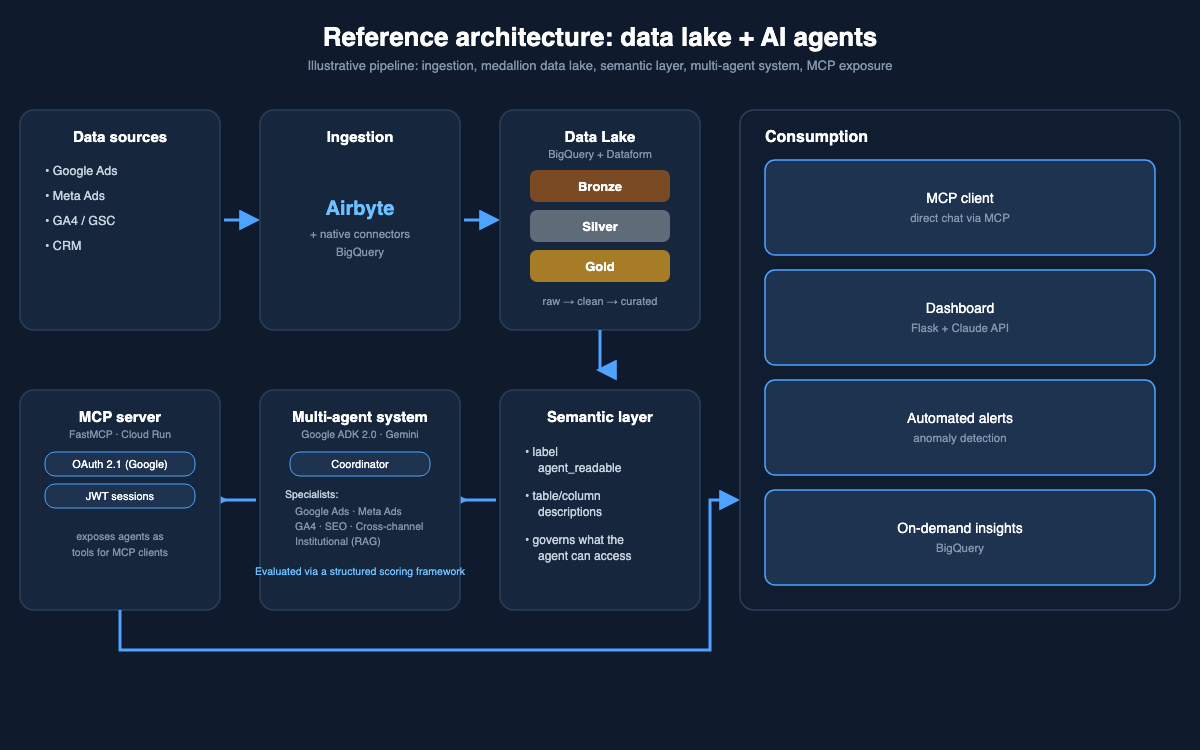
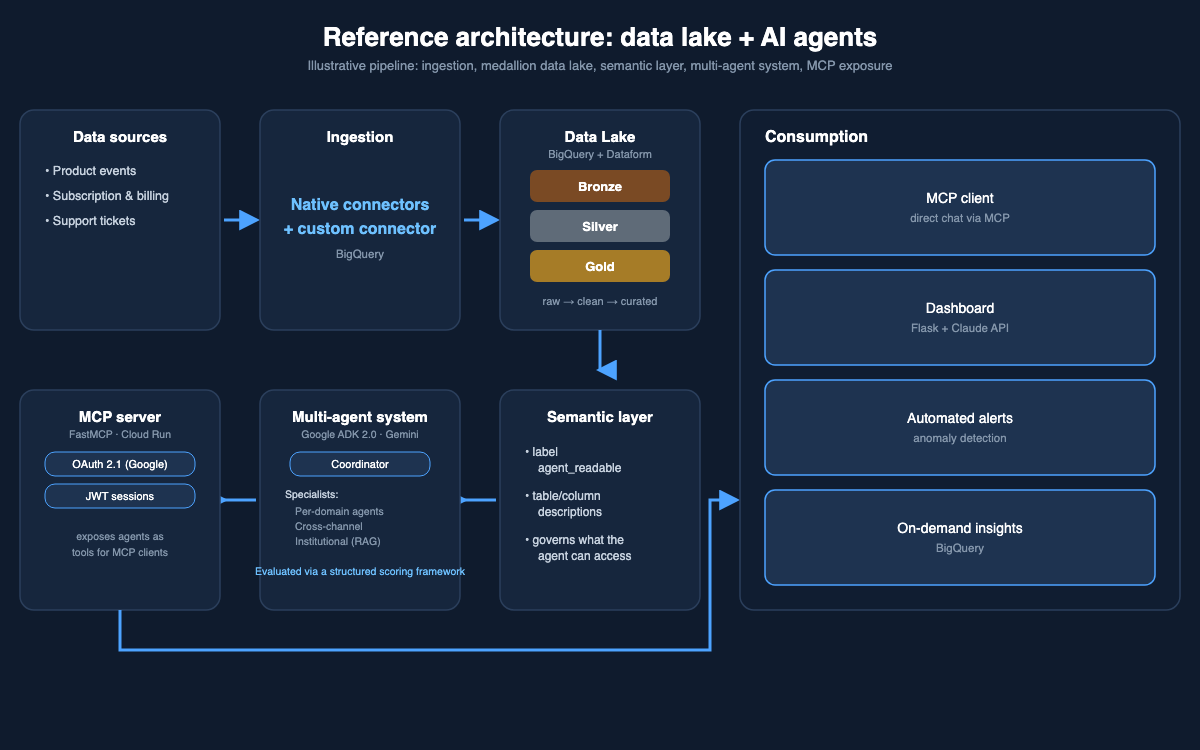
docs: reframe around decisions and trade-offs, generic domain
Shift emphasis from infrastructure description to the reasoning behind
key decisions (connector strategy, partitioning, incremental windows,
data quality gating, governance labels). Swap the illustrative domain
from marketing/ad platforms to a generic SaaS product-analytics
scenario, and drop the Airbyte reference in favor of generic
managed-ELT language.

Changed region(s): [[0.2467, 0.2453, 0.37, 0.368], [0.0308, 0.2147, 0.1542, 0.3373], [0.2467, 0.6747, 0.3392, 0.7053]]

diff --git a/README.md b/README.md
@@ -1,17 +1,35 @@
-# Marketing Data Lake
+# Data Lake Engineering: Decisions & Trade-offs
 
-A personal project exploring the medallion architecture pattern (Bronze/Silver/Gold), applied to a marketing analytics use case on **Google BigQuery** and **Dataform**, with an eye toward making the Gold layer safely consumable by AI agents. Uses a synthetic dataset, not any employer's or client's real data or pipelines.
+A personal project documenting decisions and trade-offs from building a layered data platform on **Google BigQuery** and **Dataform** — the kind of reasoning that applies to any multi-source data lake feeding both BI and AI agents, not tool-specific trivia. Illustrated with a synthetic SaaS product-analytics scenario (product usage, subscription/billing, support tickets) and a synthetic dataset — not any employer's or client's real data, pipelines, or incidents.
+
+## Key Decisions & Problems Encountered
+
+**Choosing between a managed connector, a managed ELT tool, and a custom connector isn't a style preference — it's forced by failure mode**
+For a high-volume support/ticketing source, I tried two managed paths first. A hosted ELT connector kept failing mid-run on the load step into BigQuery once the table crossed a certain row-count threshold — the extraction side was fine, the batch insert wasn't. A native BigQuery connector for the same source didn't yet expose all the tables the model needed — some entities simply weren't in its supported set. Neither failure was a configuration mistake to fix; both were structural limits of the tool for that specific source at that specific volume. The fix was writing a small Python connector directly against the source's REST API, running serverless on a schedule (Cloud Run + Cloud Scheduler) — more code to own, but no black box between the API and BigQuery to debug when it silently stops. Lesson generalized: the more laborious path is sometimes the only reliable one, and that's a decision made per source, not a blanket policy.
+
+**Why the raw layer exists even though it "does nothing"**
+Bronze holds unmodified data, partitioned by ingestion date, with no transformations. It looks redundant until a downstream bug needs a full reprocess — replaying from Bronze is a BigQuery-internal operation; replaying from the source API means fighting whatever rate limits and history-retention window that API has. Bronze is insurance against the case where the source can't or won't hand you the same data twice.
+
+**Partition by ingestion date, not event date**
+Billing and support systems commonly amend historical records — a subscription charge gets prorated after the fact, a ticket gets recategorized days after it closed. If Bronze partitioned on event date, every one of those amendments would touch an already-closed partition. Partitioning on ingestion date instead keeps Bronze strictly append-only regardless of how much the source revises its own history; reconciling "what changed" becomes Silver's problem, not Bronze's.
+
+**An incremental lookback window is a bet, not a default**
+Silver and Gold models use a lookback window to reprocess recent history on every run, sized to cover the kind of delay that shows up in operational systems: processing lag, plus amendments that can backfill or correct a record days after it was first written. A window that's too short silently drops those late corrections. One that's too long makes every incremental run cost close to a full rebuild, for no accuracy gain past the point where amendments stop arriving. There's no universally correct window — it has to be sized against how late the specific source's corrections actually land, and revisited if that behavior changes.
+
+**A failed data-quality check blocks deployment; it doesn't just log a warning**
+Assertions that fail stop the Dataform run outright — nothing downstream of a failed table gets published. The alternative (publish with a warning) optimizes for uptime over correctness, which is backwards once a layer feeds an agent instead of just a dashboard: a person looking at a chart with a footnote can apply judgment, but an agent citing a stale or duplicated number states it as fact. A visibly missing answer is a smaller failure than a confidently wrong one.
+
+**Governance as a label on the table, not a separate permissions service**
+Every table carries a small set of BigQuery labels (`layer`, `source_system`, `agent_readable`, `domain`) instead of routing access decisions through a separate governance service. The trade-off is real: a label is declarative and lives right next to the schema it describes, cheap to audit by scanning table metadata — but it's enforced by convention (whatever reads the label has to respect it), not by the database engine the way row-level security would be. That's the right trade-off at the scale and trust level of a single internal data platform; it stops being the right trade-off once multiple untrusted consumers need the same data with different access rules.
 
 ## Architecture
 
 ```
 Raw Sources
     │
-    ├── Google Ads          (BigQuery Native Connector)
-    ├── Meta Ads            (Airbyte)
-    ├── GA4                 (BigQuery Native Export)
-    ├── Google Search Console (Airbyte)
-    └── CRM                 (Airbyte · PostgreSQL)
+    ├── Product usage events    (Native BigQuery export)
+    ├── Subscription & billing  (Native connector)
+    └── Support tickets         (Custom Python connector — see decisions above)
          │
          ▼
     ── BRONZE ──────────────────────────────────────────
@@ -23,69 +41,50 @@ Raw Sources
     ── SILVER ──────────────────────────────────────────
     Cleaned, deduplicated, typed.
     One model per source/entity.
-    Incremental with 7-day lookback window.
+    Incremental with a lookback window.
     agent_readable: true
          │
          ▼
     ── GOLD ────────────────────────────────────────────
     Business-ready aggregations.
-    Cross-channel unified performance model.
+    Unified per-account activity model.
     Optimized for dashboards and AI agents.
     agent_readable: true
 ```
-
-## Key Design Decisions
-
-**Incremental models with DELETE + INSERT**
-Silver and Gold models use a lookback window to handle late-arriving data without full table scans — sized to cover the kind of delay that shows up in real ad-platform reporting: processing lag plus reprocessing from server-side conversion APIs that can backfill a conversion against a session days after it happened. A window that's too short silently under-counts late conversions; one that's too long makes every incremental run cost close to a full rebuild for no accuracy gain.
-
-**Semantic labels on every table**
-Every table carries BigQuery labels (`layer`, `channel`, `agent_readable`, `pipeline`, `domain`) enabling automated governance and agent-safe data access policies.
-
-**Grounding by design**
-Gold tables are meant to feed a semantic layer consumed by AI agents. The `agent_readable: true` label is the grounding contract between the data layer and the agent layer — it ties every agent response to a verifiable, governed source instead of the model's parametric memory, which is the core defense against hallucination.
-
-**Connector-aware conventions**
-Different patterns for BigQuery Native connectors (Google Ads, GA4) vs Airbyte connectors — cost micros conversion, UNNEST for nested fields, `_airbyte_*` deduplication. Native connectors write directly to BigQuery with Google-managed schema evolution and no extra infrastructure, so they're the default whenever a channel has one. Airbyte only enters the picture for sources without a native BigQuery path — it costs a running connector and its own dedup logic that native connectors don't need.
 
 ## Project Structure
 
 ```
 definitions/
   02_silver/
-    gads/         # Google Ads Silver
-    ga4/          # GA4 Silver
-    meta/         # Meta Ads Silver
-    gsc/          # Google Search Console Silver
-    crm/          # CRM Silver
+    product/      # Product usage Silver
+    billing/       # Subscription & billing Silver
+    support/       # Support tickets Silver
   03_gold/
-    gads/         # Google Ads Gold
-    ga4/          # GA4 Gold
-    marketing/    # Unified cross-channel performance
+    account/       # Unified per-account activity
   assertions/
     02_silver/    # Data quality checks per source
-    03_gold/      # Cross-channel consistency checks
+    03_gold/      # Cross-source consistency checks
 _templates/
-  silver_channel_template.sqlx
-  gold_performance_template.sqlx
+  silver_source_template.sqlx
+  gold_account_template.sqlx
   assertion_no_duplicates_template.sqlx
 ```
 
-## Unified Performance Model
+## Unified Account Activity Model
 
-The `gld_marketing_performance_daily` table is the core output — a single model that consolidates all paid media channels:
+The `gld_account_activity_daily` table is the core output — a single model consolidating product usage, billing, and support signals per account:
 
 | Column | Description |
 |---|---|
 | `date` | Event date |
-| `source` | Channel (google, meta, tiktok, linkedin, bing) |
-| `campaign_name` | Campaign identifier |
-| `campaign_objective` | Awareness / Consideration / Conversion |
-| `cost_brl` | Media spend in BRL |
-| `impressions` | Total impressions |
-| `clicks` | Total clicks |
-| `ga4_transactions` | Attributed transactions (GA4) |
-| `ga4_transaction_value_brl` | Attributed revenue in BRL (GA4) |
+| `account_id` | Account identifier |
+| `plan_tier` | Subscription tier (Free / Pro / Enterprise) |
+| `mrr_brl` | Monthly recurring revenue in BRL |
+| `active_users` | Daily active users for the account |
+| `product_events` | Count of product usage events |
+| `support_tickets_opened` | Tickets opened |
+| `support_tickets_resolved` | Tickets resolved |
 
 ## Examples
 
@@ -97,23 +96,21 @@ Illustrative snippets, written for this project with synthetic/generic names —
 config {
   type: "incremental",
   schema: "silver",
-  name: "slv_channel_campaign_daily",
+  name: "slv_account_billing_daily",
   bigquery: {
     partitionBy: "date",
-    labels: { layer: "silver", channel: "channel_name", agent_readable: "true", domain: "marketing" }
+    labels: { layer: "silver", source_system: "billing", agent_readable: "true", domain: "account" }
   },
-  uniqueKey: ["date", "campaign_id"]
+  uniqueKey: ["date", "account_id"]
 }
 
 SELECT
   DATE(event_date) AS date,
-  campaign_id,
-  campaign_name,
-  SAFE_DIVIDE(cost_micros, 1e6) AS cost_brl,   -- BigQuery Native connectors report cost in micros
-  impressions,
-  clicks
-FROM ${ref("bronze_channel_raw")}
-WHERE DATE(event_date) >= DATE_SUB(CURRENT_DATE(), INTERVAL 7 DAY)  -- lookback window, see Key Design Decisions
+  account_id,
+  plan_tier,
+  mrr_brl
+FROM ${ref("bronze_billing_raw")}
+WHERE DATE(event_date) >= DATE_SUB(CURRENT_DATE(), INTERVAL 7 DAY)  -- lookback window, see Key Decisions
 ${when(incremental(), `AND date >= (SELECT MAX(date) FROM ${self()})`)}
 ```
 
@@ -122,12 +119,12 @@ ${when(incremental(), `AND date >= (SELECT MAX(date) FROM ${self()})`)}
 ```sqlx
 config {
   type: "assertion",
-  name: "assert_no_duplicate_campaign_days"
+  name: "assert_no_duplicate_account_days"
 }
 
-SELECT date, campaign_id, COUNT(*) AS row_count
-FROM ${ref("slv_channel_campaign_daily")}
-GROUP BY date, campaign_id
+SELECT date, account_id, COUNT(*) AS row_count
+FROM ${ref("slv_account_billing_daily")}
+GROUP BY date, account_id
 HAVING COUNT(*) > 1
 ```
 
@@ -136,15 +133,15 @@ An assertion that returns zero rows passes silently. Any row returned fails the 
 **Grounding contract — the label that gates agent access**
 
 ```javascript
-// definitions/03_gold/marketing/gld_marketing_performance_daily.sqlx (config block)
+// definitions/03_gold/account/gld_account_activity_daily.sqlx (config block)
 config {
   type: "table",
   bigquery: {
     labels: {
       layer: "gold",
       agent_readable: "true",
-      pipeline: "marketing_unified",
-      domain: "marketing"
+      pipeline: "account_activity",
+      domain: "account"
     }
   }
 }
@@ -170,19 +167,9 @@ Assertions run automatically on every Dataform execution and block deployment on
 
 - **Transformation:** Dataform (SQLX)
 - **Warehouse:** Google BigQuery
-- **Ingestion:** BigQuery Native Connectors · Airbyte
+- **Ingestion:** BigQuery native connectors · a managed ELT connector (for sources with native support) · a custom Python connector on Cloud Run + Cloud Scheduler (for sources neither managed path covered — see Key Decisions)
 - **Orchestration:** Dataform Schedules · Cloud Workflows
-- **Language:** SQL · JavaScript (Dataform config)
-
-## Adding a New Channel
-
-1. Confirm raw dataset exists in BigQuery
-2. Add vars to `workflow_settings.yaml`
-3. Create Silver models in `definitions/02_silver/<channel>/`
-4. Create Gold models in `definitions/03_gold/<channel>/`
-5. Add assertions in `definitions/assertions/`
-6. Add `UNION ALL` to `gld_marketing_performance_daily`
-7. Set BigQuery labels on new datasets
+- **Language:** SQL · JavaScript (Dataform config) · Python (custom connector)
 
 ## Related Projects
 
